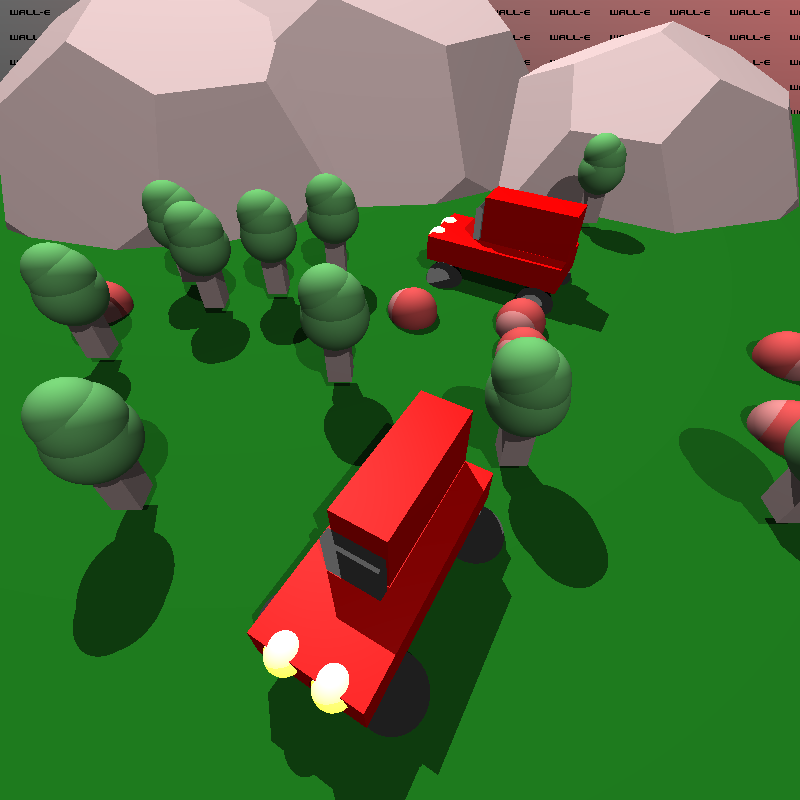
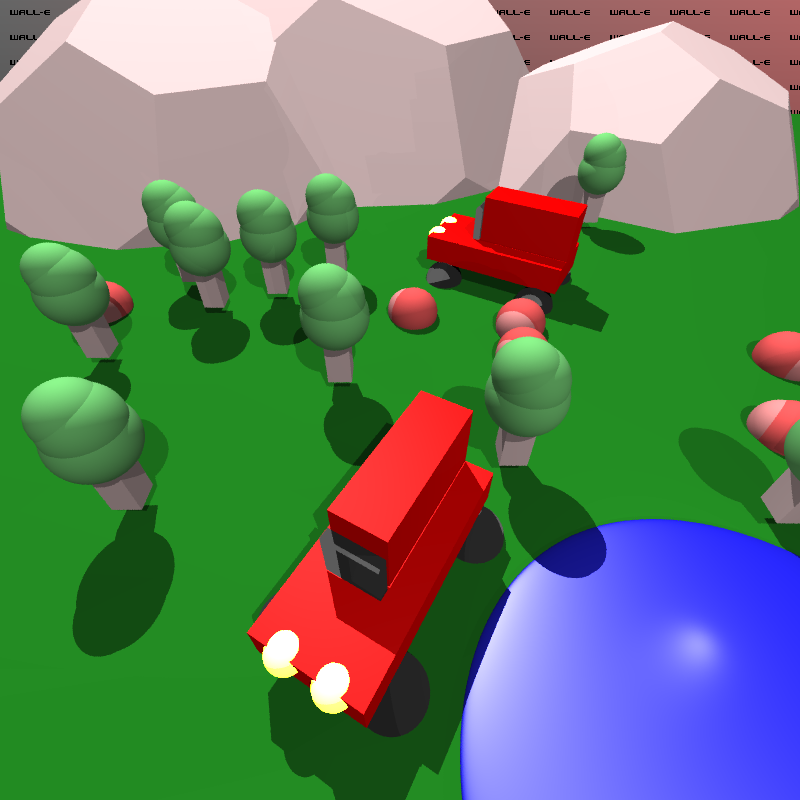
Added final scene

diff --git a/scripts/sample.py b/scripts/sample.py
@@ -181,10 +181,6 @@ scene.set_ambient(0.2, 0.2, 0.2)
 camera = Camera((0, 30, 30), (0, 0, -1), (0, 1, 0), 80)
 camera.look_at(0, 0, 0)
 
-# ray_trace(scene, camera, 500, 500, "image.png")
-# ray_trace(scene, camera, 256, 256, "image.png")
-# ray_trace(scene, camera, 50, 50, "image.png")
-# ray_trace(scene, camera, 100, 100, "image.png")
-ray_trace(scene, camera, 800, 800, "image.png")
+ray_trace(scene, camera, 500, 500, "image.png")
 
 copy_and_archive_image()

diff --git a/README.md b/README.md
@@ -10,7 +10,7 @@
 
 <p align="center">
   <img src="./images/sample.png" width="300" height="300">
-    <p><i><u>sample.py</u>: Two cars surrounded by trees and piles of leaves, in front of a set of large boulders.</i></p>
+    <p><i><u>sample.py</u>: Two cars surrounded by trees and piles of leaves, in front of a set of large boulders. There's a small and sparkling pond. </i></p>
 </p>
 
 ### Structure
